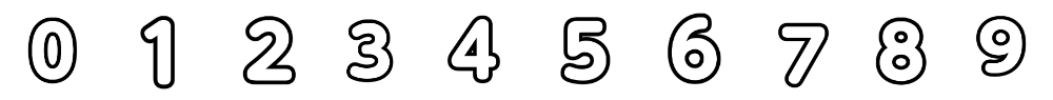
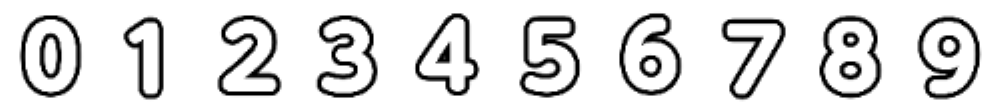
リザルト画面の数字の修正、サンタクロースの描画
リザルトの数字を修正しました。
サンタクロースをスコアに応じて描画するようにしました

diff --git a/Scenes/InGameScene.cpp b/Scenes/InGameScene.cpp
@@ -14,6 +14,8 @@ bool goal_flag;
 bool delay_flag;
 bool image_flag;
 int speed;
+int score;
+int score_animation[10];
 
 InGameScene::InGameScene()
 	: player(nullptr)
@@ -22,6 +24,8 @@ InGameScene::InGameScene()
 	, background_image(0)
 	, next_scene(eSceneType::eInGame)
 {
+	/*score = LoadGraph
+	score_animation = LoadDivGraph("Resource/image/suuji.png", 3, 3, 1, 200, 200, score_animation);*/
 }
 
 InGameScene::~InGameScene()
